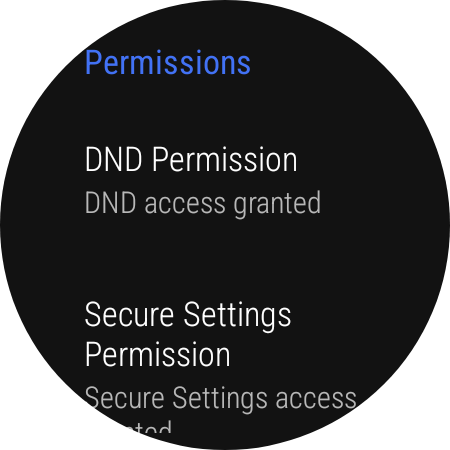
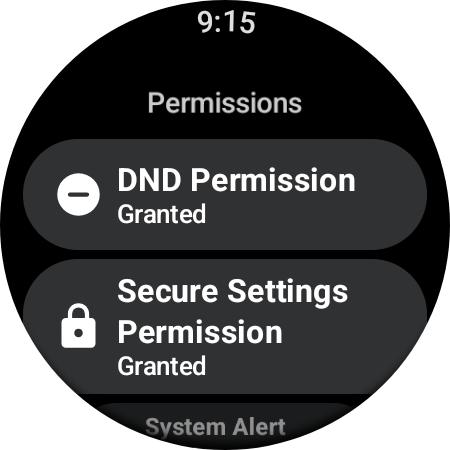
readme changes

diff --git a/README.md b/README.md
@@ -15,9 +15,10 @@ is only newly available for the newest Pixel Watch 2:
 
 Most of the credit goes to [@rhaeus](https://github.com/rhaeus) for the original development of this app.
 
-I ([@dreadedlama](https://github.com/dreadedlama)) initially forked the project and worked on improving the Bedtime Mode implementation. [@Silleellie](https://github.com/Silleellie) later referenced and incorporated those changes into his own fork, along with additional improvements. **A big thanks to [@Silleellie](https://github.com/Silleellie) for building on those changes and for the additional improvements.**
+I ([@dreadedlama](https://github.com/dreadedlama)) initially forked the project and worked on improving the Bedtime Mode implementation. [@Silleellie](https://github.com/Silleellie) later built on those changes in his own fork and added further improvements. [@Turtlepaw](https://github.com/Turtlepaw) subsequently took the project further with his own fork, including a Material 3 design to it.
+**A big thank you to [@Silleellie](https://github.com/Silleellie) and [@Turtlepaw](https://github.com/Turtlepaw) for building on the project and contributing these improvements.**
 
-I have since incorporated the changes from [@Silleellie](https://github.com/Silleellie)'s fork into this fork as well, so this project now includes improvements from both branches while remaining based on the original work by [@rhaeus](https://github.com/rhaeus).
+I have since incorporated changes from both [@Silleellie](https://github.com/Silleellie)'s and [@Turtlepaw](https://github.com/Turtlepaw)'s forks into this fork. This project therefore combines improvements from both branches along with my own changes.
 
 ## Setup
 
@@ -32,8 +33,7 @@ I have since incorporated the changes from [@Silleellie](https://github.com/Sill
 ### Phone
 
 <p float="left">
-  <img src="/images/mobile_1.png" width="300" />
-  <img src="/images/mobile_2.png" width="300" />
+  <img src="/images/mobile.png" width="300" />
 </p>
 
 1. Install the app `mobile-release.apk` on the phone via *adb*
